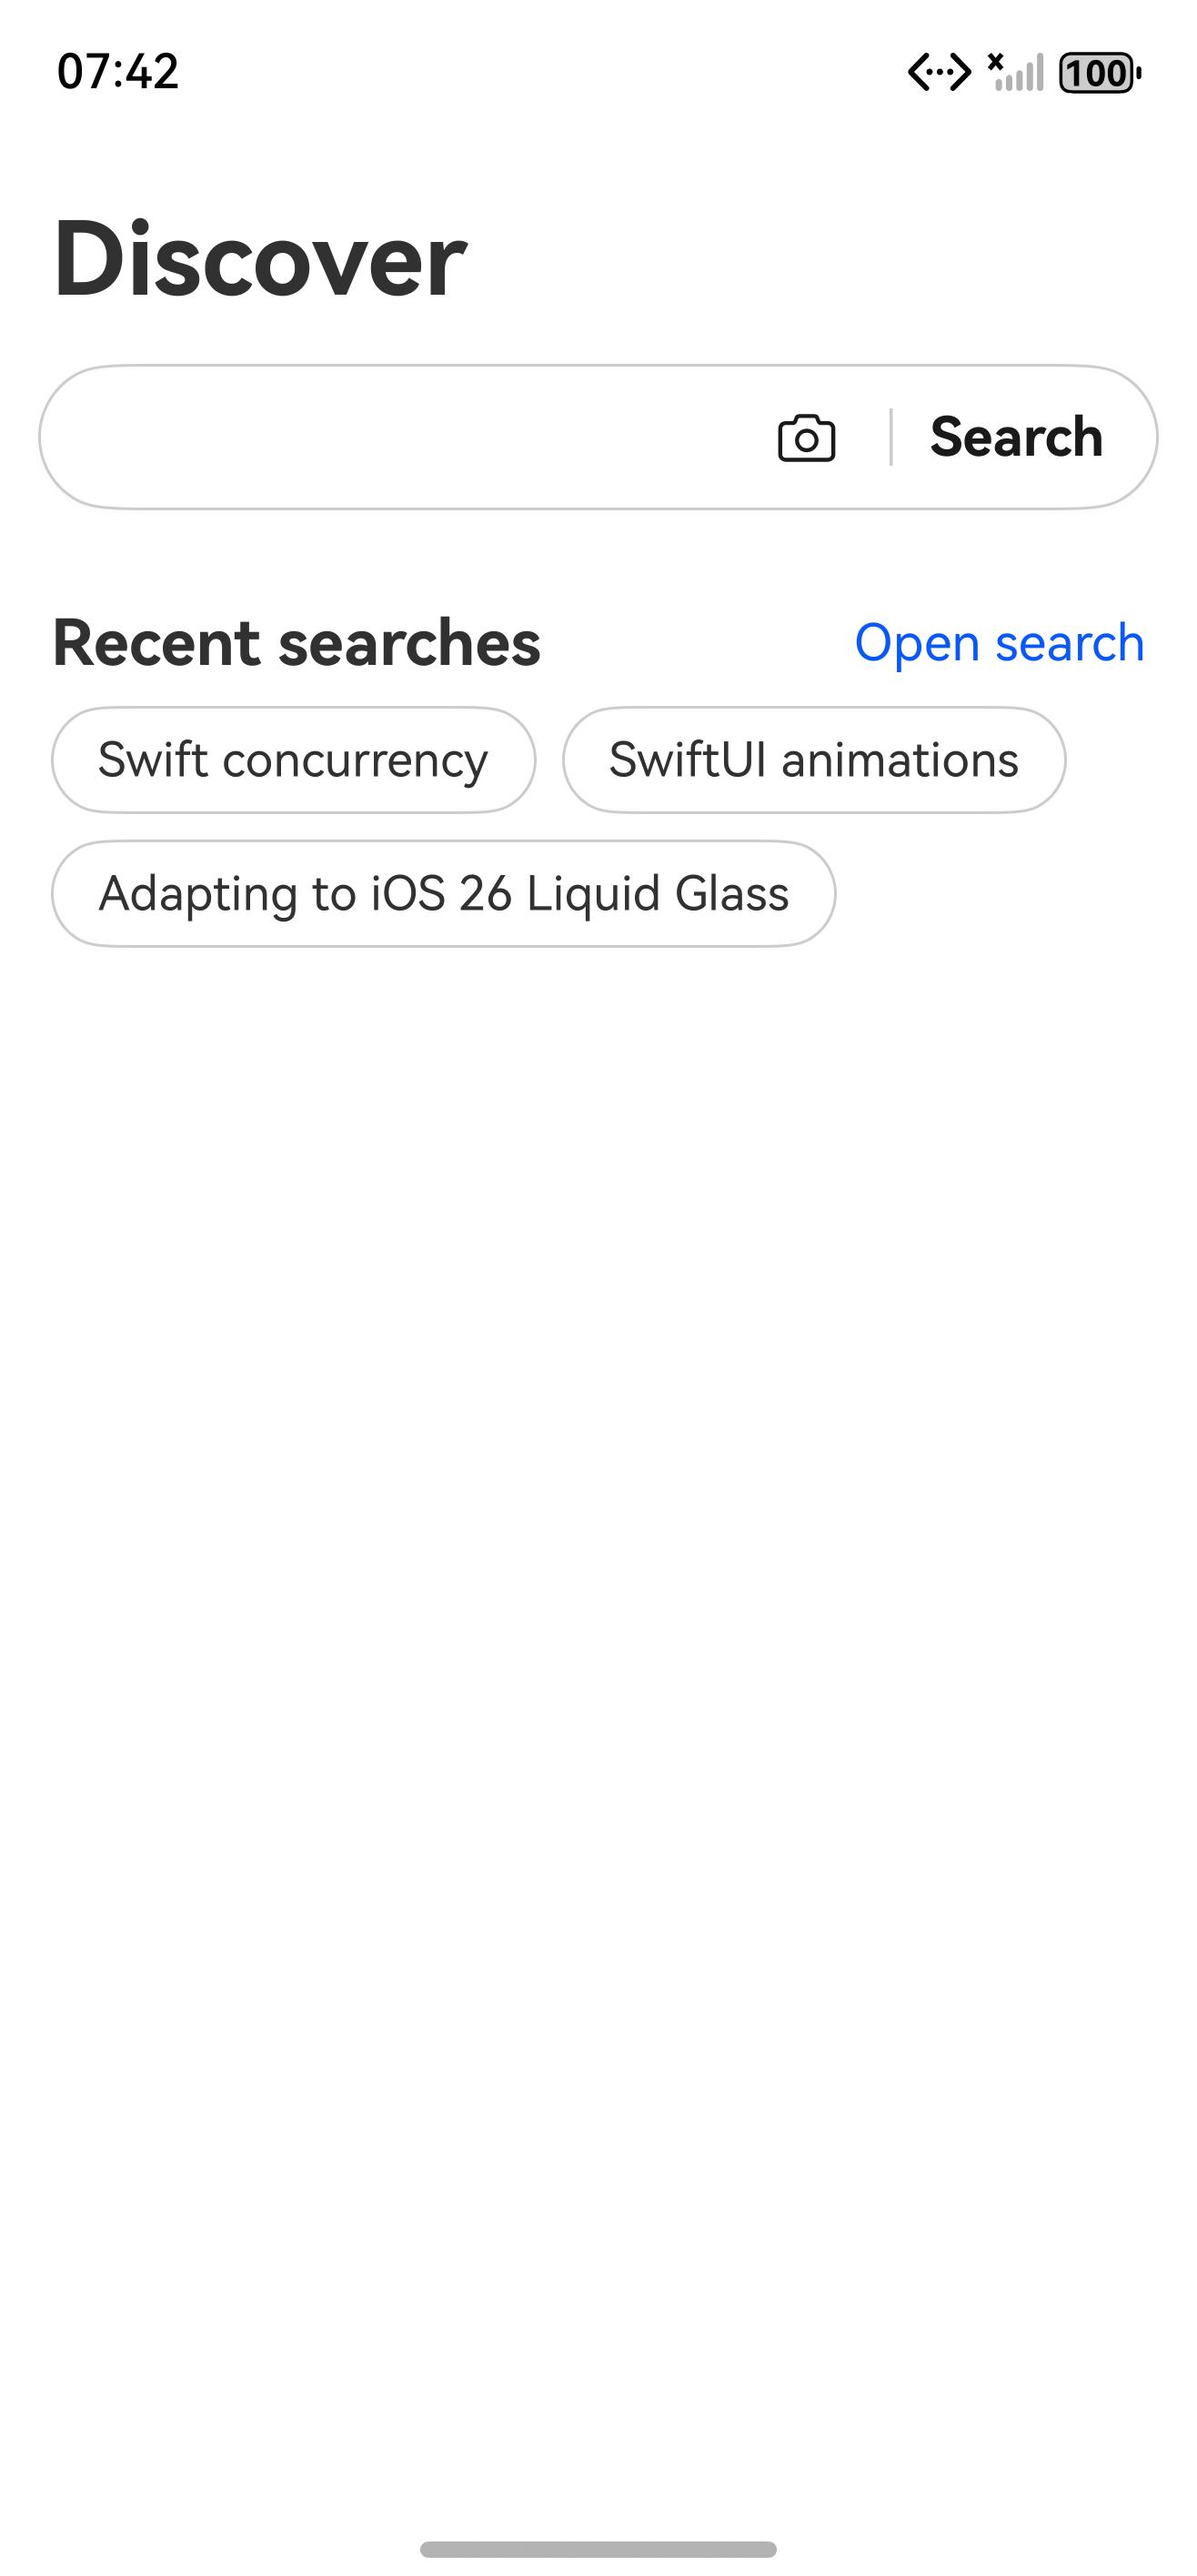
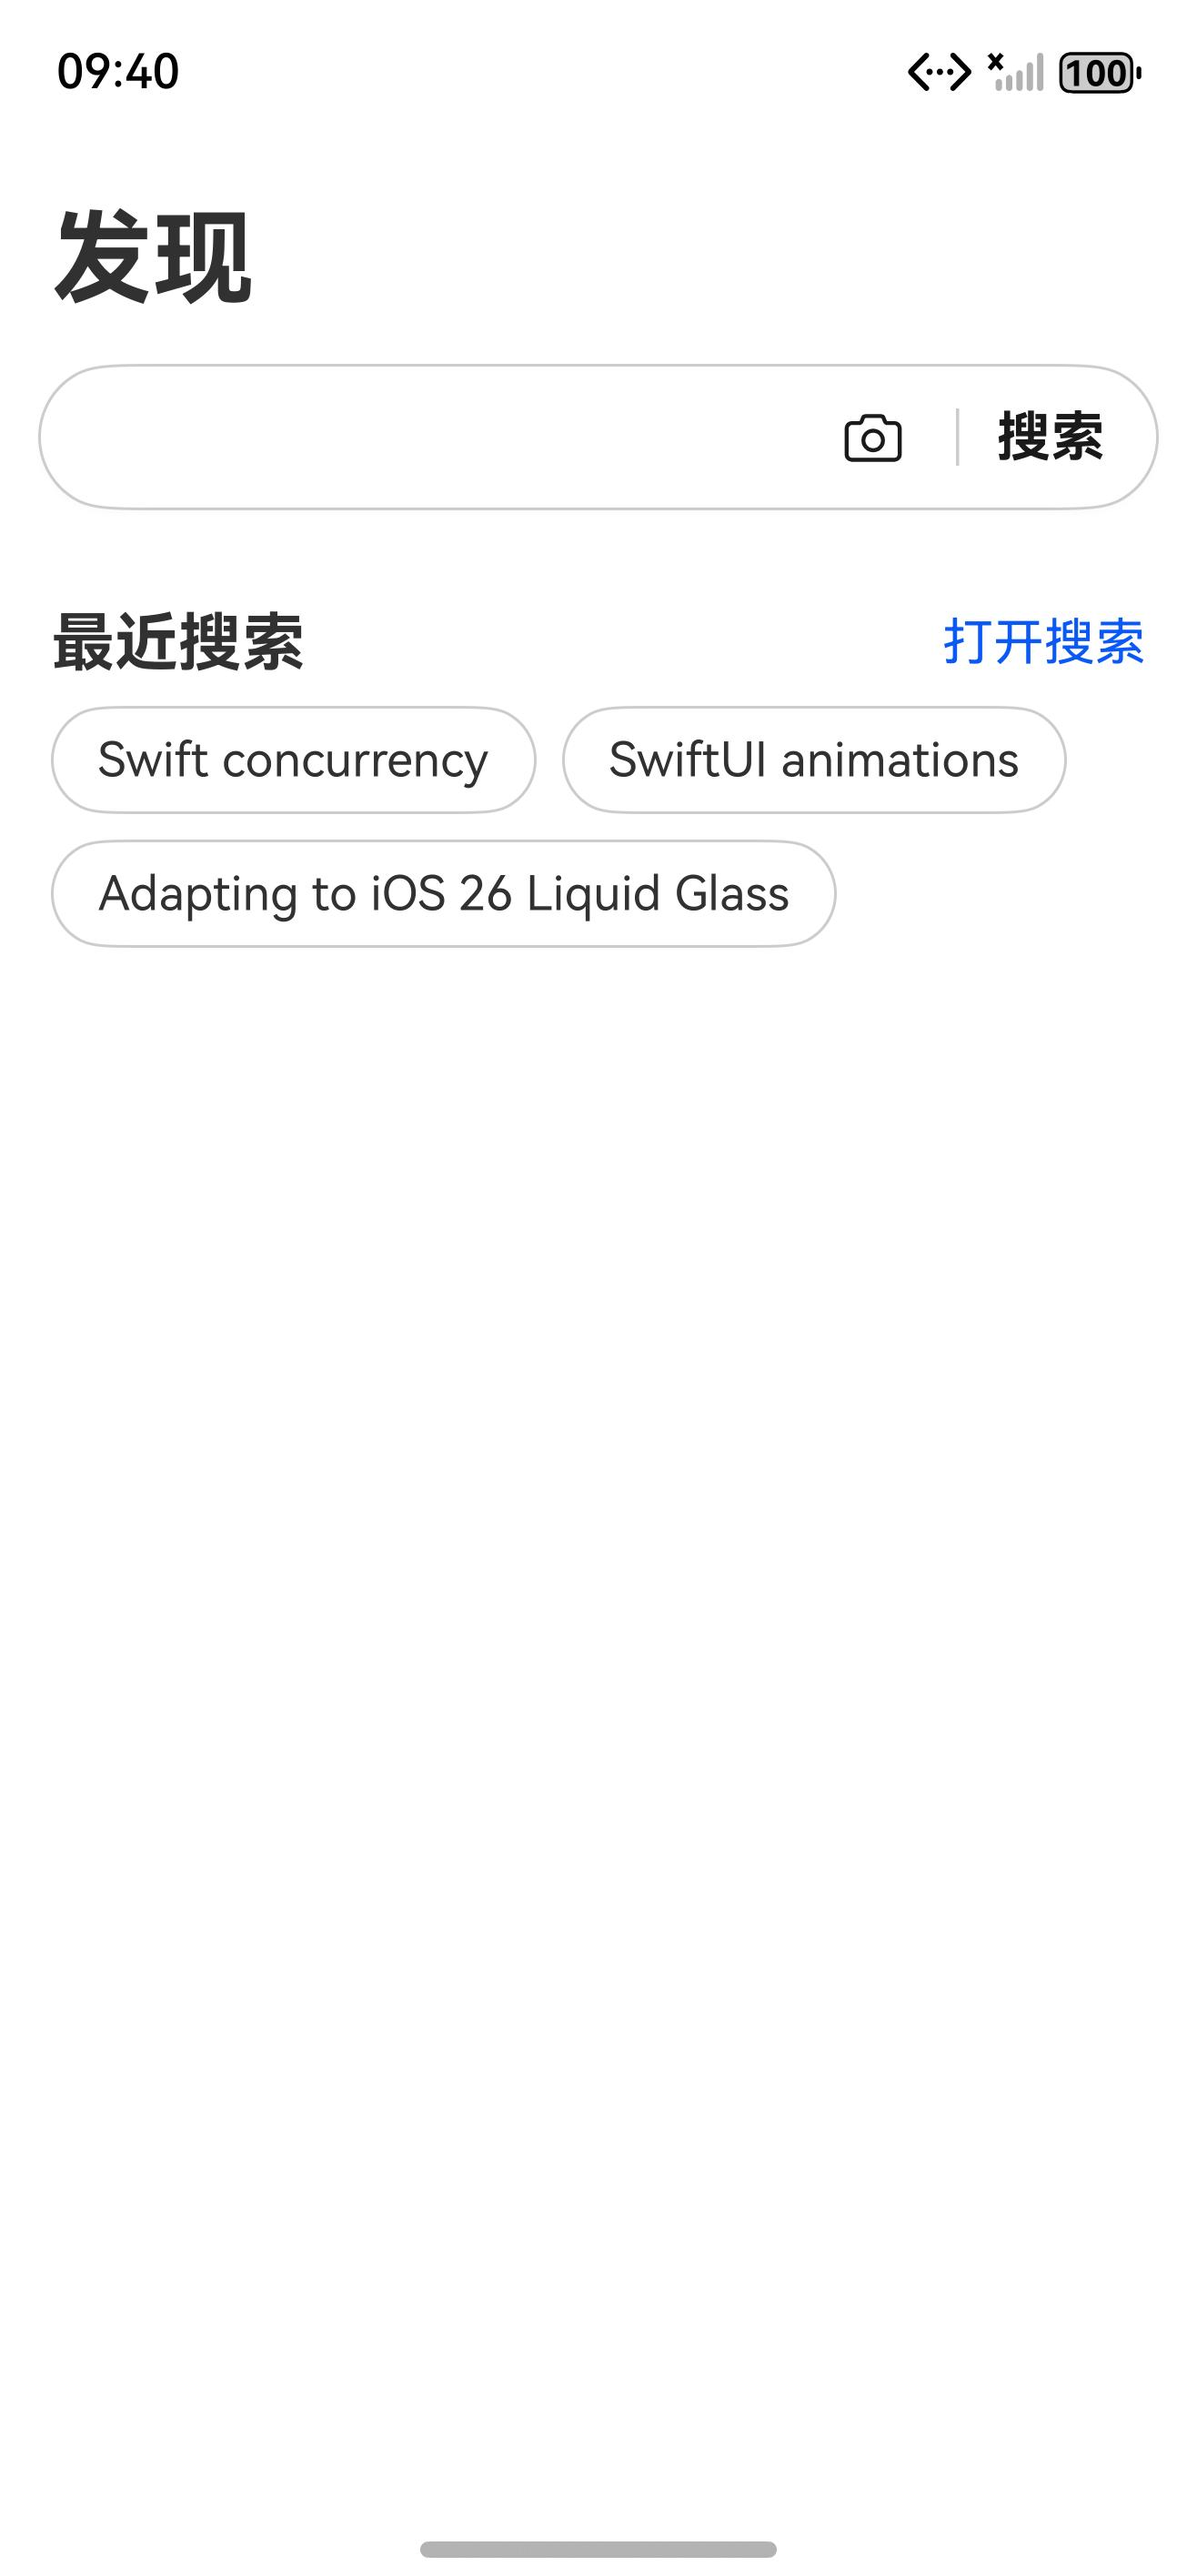
fix(harmonyos): 🌐 localize the example strings (zh_CN)
By  @ChenYilong <luohanchenyilong@163.com>

Claude-Session: https://claude.ai/code/session_017y7XNzPUTD1qDqdiasqxb1

diff --git a/docs/task-log.md b/docs/task-log.md
@@ -205,4 +205,6 @@ begins and becomes `DONE` when it ends.
   and `aa start` opens it. Screenshots (commit `ca56d68`, original 1316×2832), top to bottom:
   1. ![Discover](assets/harmonyos-discover-emulator-unsigned.jpeg)
   2. ![Search, empty cache](assets/harmonyos-search-empty-cache-emulator-unsigned.jpeg)
-  Open: the empty placeholder reads "暂无数据" in an English UI; hypium tests not run yet.
+  Fixed ("fix 1"): the emulator runs in zh-CN; the library was localized ("暂无数据" is its zh_CN string) but the
+  example hard-coded English. The example strings are now resources (`entry/.../base` and `zh_CN/element/string.json`),
+  read with `getStringByNameSync`; the screenshots above are retaken in Chinese. Open: hypium tests not run yet.
